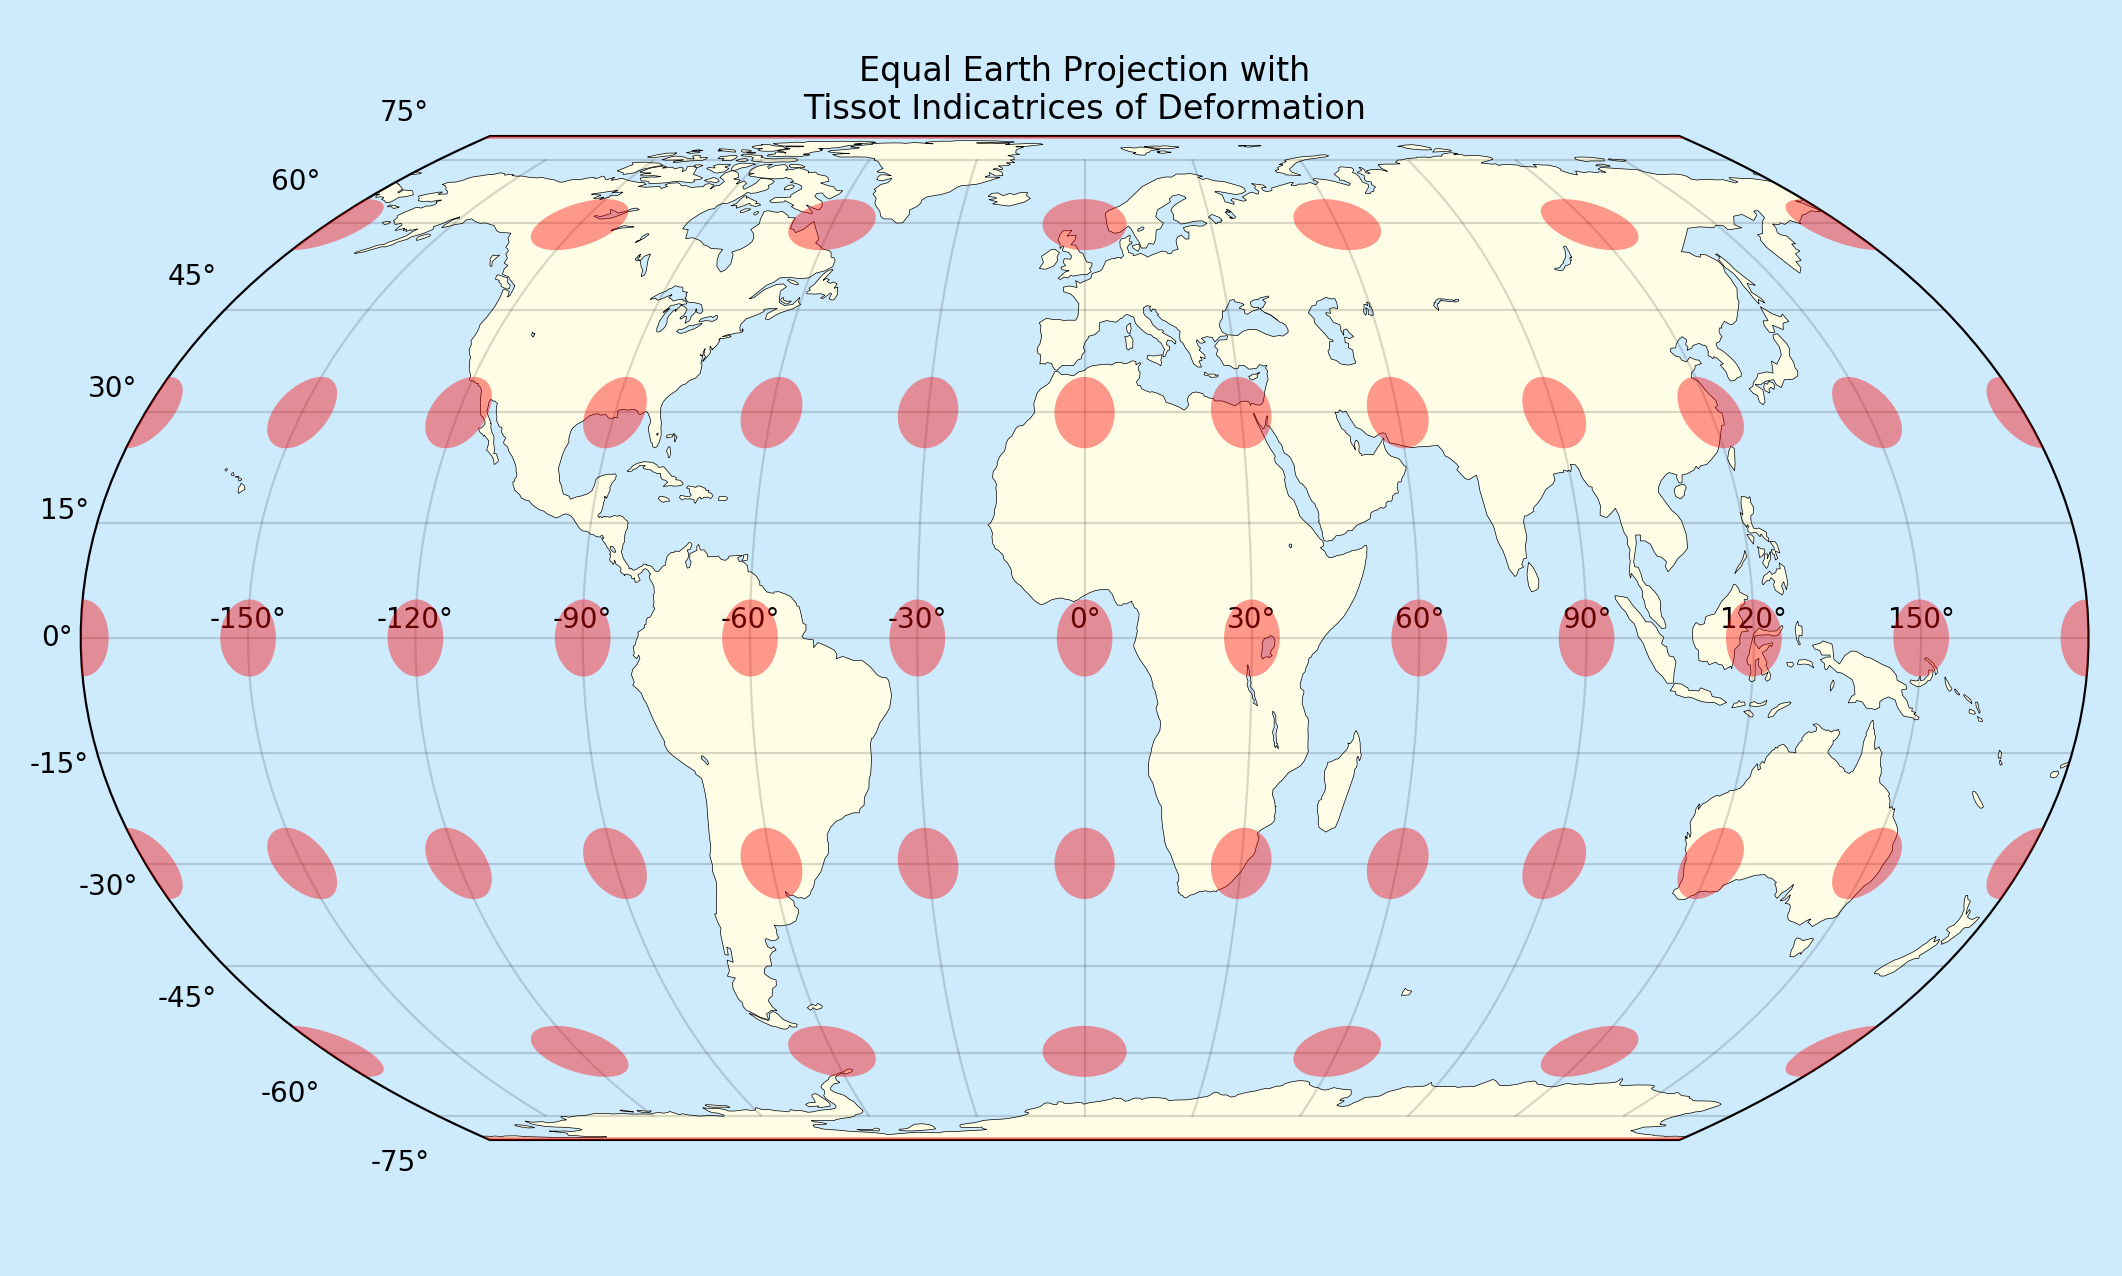
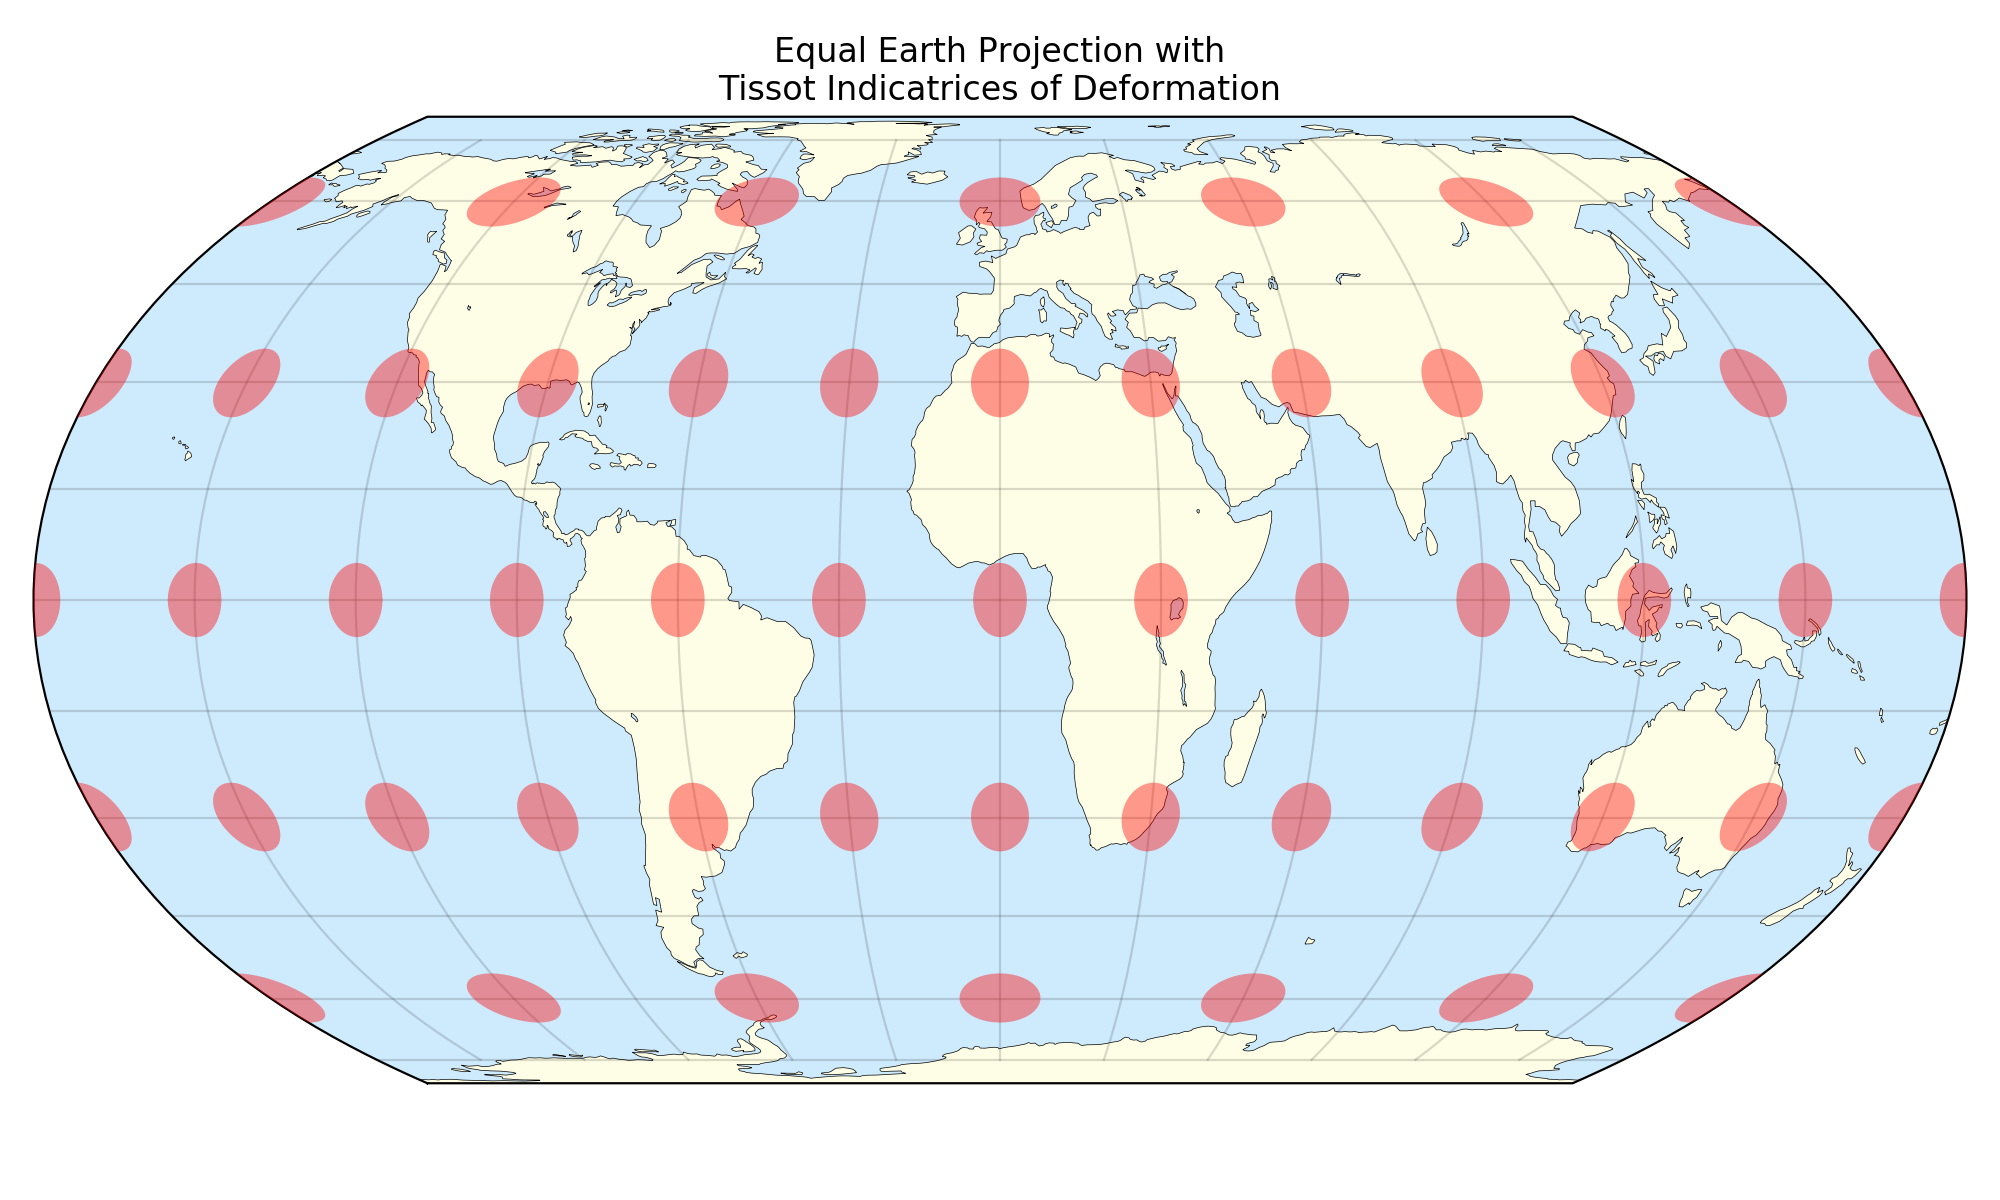
Fixed background
Background now fits correctly to map, which also solves clipping problem (everything is clipped to map).

diff --git a/EqualEarth.py b/EqualEarth.py
@@ -445,20 +445,22 @@ class EqualEarthAxes(GeoAxes):
         background of the plot.  It should be a subclass of Patch.
 
         In this case, it is a closed square path that is warped by the
-        projection.
+        projection. Note that it must be in Axes space (0, 1).
         """
-        verts = self._gen_axes_verts()
-        patch = patches.Polygon(verts,
-                                facecolor=rcParams['axes.facecolor'])
+        verts = self._gen_axes_verts()  # Data space
+        path = patches.Path(verts, closed=True)
+        # convert to projection space with iterations on path
+        ipath = self.transProjection.transform_path_non_affine(path)
+        # convert to axes space
+        apath = self.transAffine.transform_path(ipath)  # Axes space
+        patch = patches.PathPatch(apath)
         return patch
 
     def _gen_axes_spines(self):
         spine_type = 'circle'
         verts = self._gen_axes_verts()
-        path = patches.mlines.Path(verts)
-
-        spine = mspines.Spine(self, spine_type, path, linewidth=5)
-        #spine.set_transform(self.transAxes)
+        path = patches.Path(verts, closed=True)
+        spine = mspines.Spine(self, spine_type, path)
         return {'geo': spine}
 
     class EqualEarthTransform(Transform):
@@ -484,12 +486,6 @@ class EqualEarthAxes(GeoAxes):
             """
             long = ll[:, 0:1]
             lat = ll[:, 1:2]
-
-            # Limit coordinates to map dimensions
-            xlim = np.pi
-            ylim = np.pi/2.
-            long = np.clip(long, -xlim, xlim)
-            lat = np.clip(lat, -ylim, ylim)
 
             # Pre-compute some values
             A1 = 1.340264
@@ -578,7 +574,7 @@ register_projection(EqualEarthAxes)
 if __name__ == '__main__':
     import matplotlib.pyplot as plt
     # Now make a simple example using the custom projection.
-    longs = [-110, 100, 100, -110]
+    longs = [-200, 100, 100, -200]
     lats = [40, 40, -40, 40]
     fig = plt.figure('Equal Earth Projection')
     fig.clear()

diff --git a/README.md b/README.md
@@ -59,7 +59,6 @@ as well as code from @mbostock:
 Issues
 ------
 * Does not accept data in degrees, so data must be converted to radians first.
-* The figure facecolor gets overdrawn with the axes facecolor
 
 @Author: Dan Neuman (@dan613)
 
